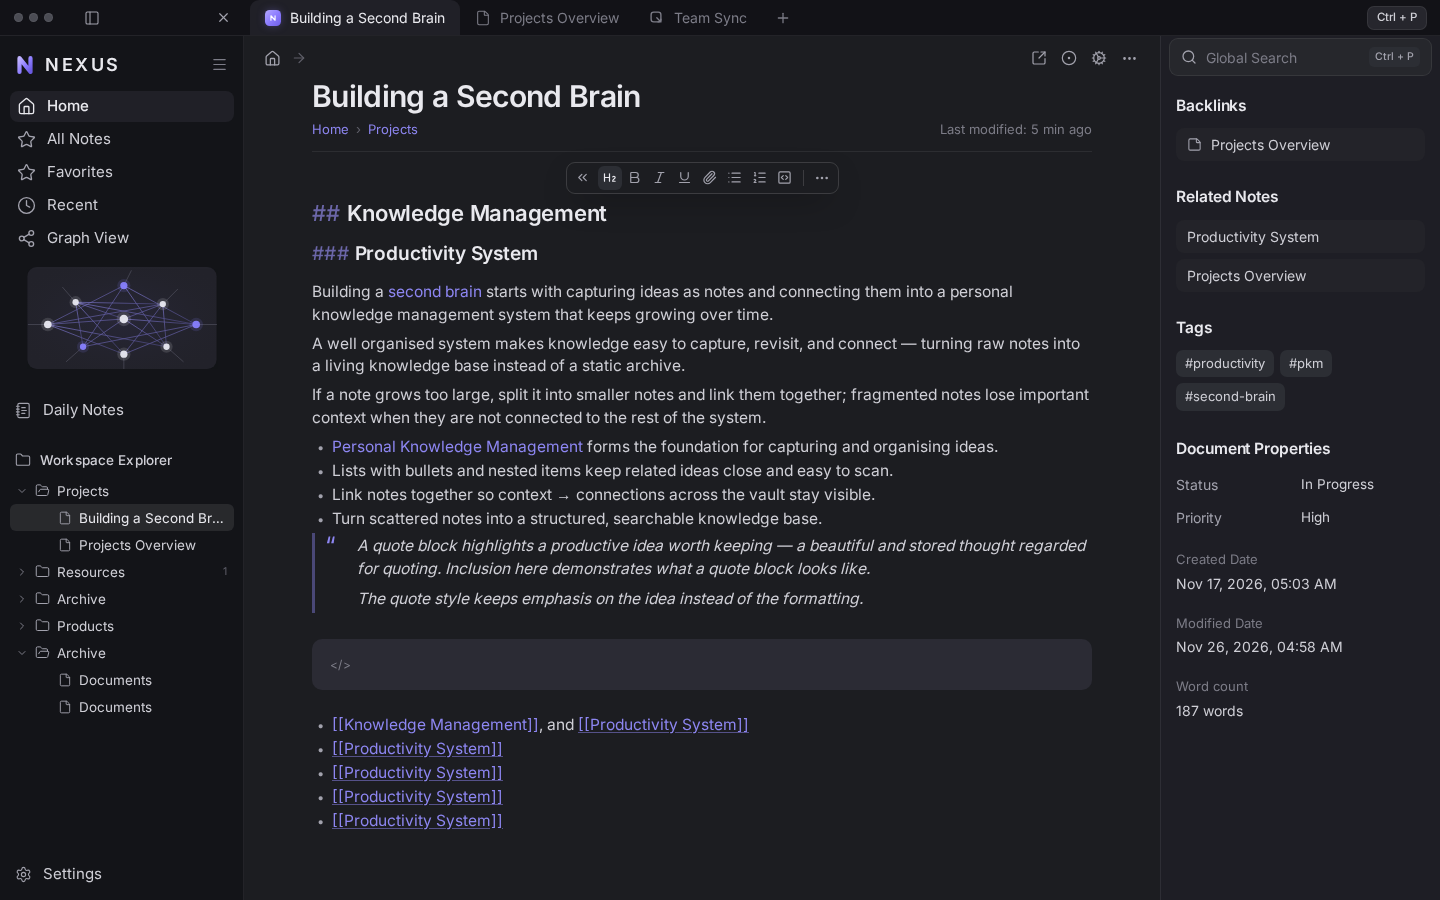
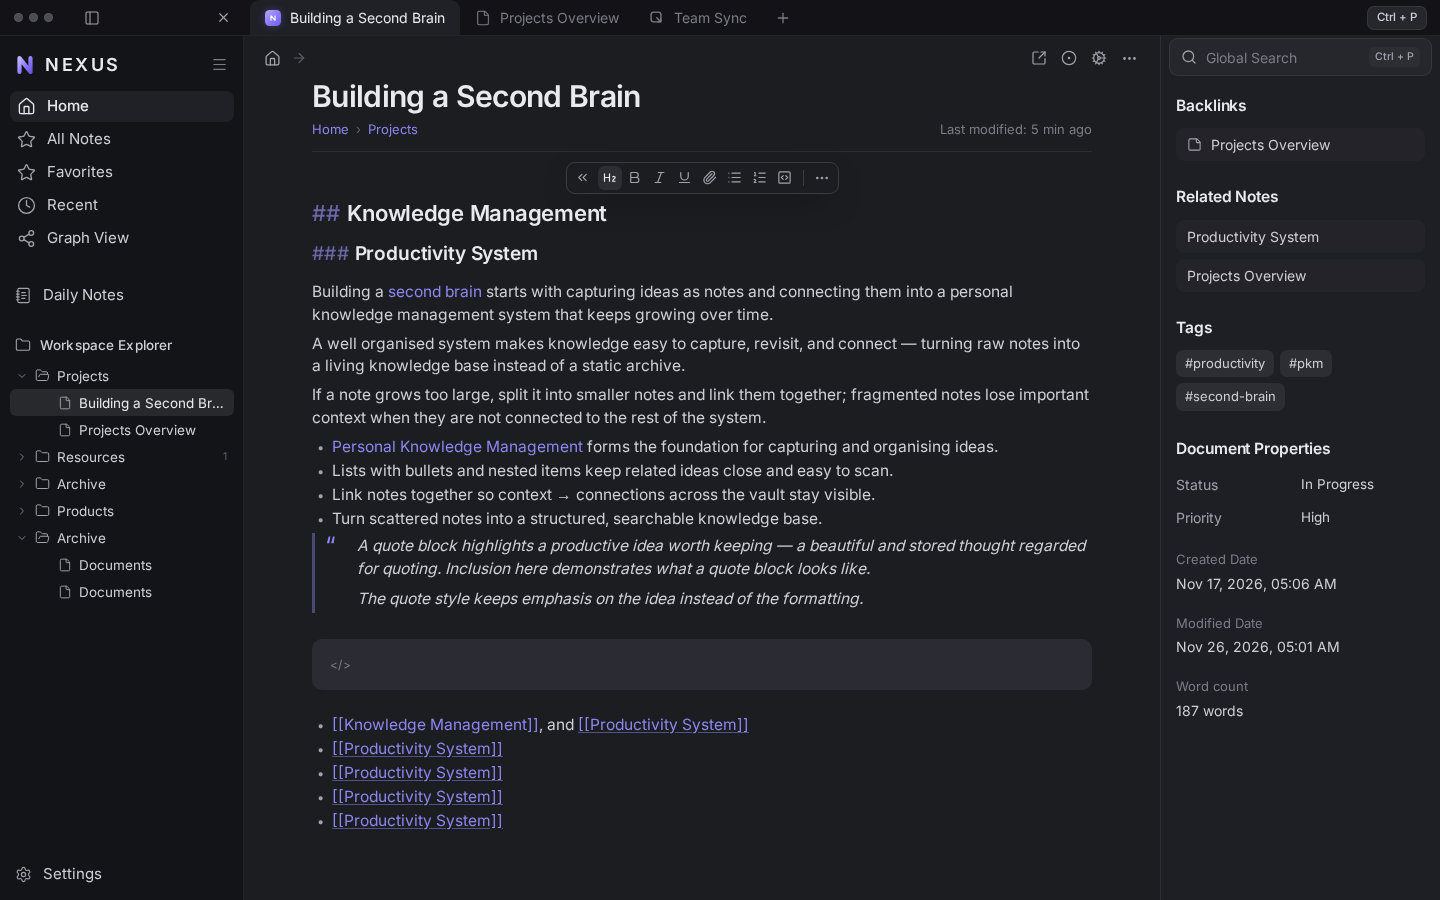
chore(ui): remove graph preview card under Canvas nav (per user request)

Changed region(s): [[0.0, 0.3111, 0.1562, 0.7467], [0.0625, 0.7467, 0.0938, 0.8089], [0.9062, 0.7156, 0.9375, 0.7467]]

diff --git a/src/components/LeftSidebar.tsx b/src/components/LeftSidebar.tsx
@@ -29,7 +29,6 @@ import {
 import type { NavId } from '../lib/store'
 import { useT } from '../lib/i18n'
 import { formatBinding } from '../lib/shortcuts'
-import { GraphPreview } from './GraphPreview'
 import { ContextMenu } from './ui/ContextMenu'
 import type { MenuItem } from './ui/ContextMenu'
 import type { WsNode } from '../lib/store'
@@ -488,20 +487,6 @@ export function LeftSidebar() {
           )
         })}
       </nav>
-
-      {/* mini canvas / graph card */}
-      <button
-        type="button"
-        aria-label={t('palette.openCanvas', 'Open Canvas')}
-        title={t('palette.openCanvas', 'Open Canvas')}
-        onClick={() => {
-          setNav('canvas')
-          setView({ kind: 'canvas' })
-        }}
-        className="mx-[12px] mt-[13px] block h-[102px] shrink-0 overflow-hidden rounded-[10px] transition-opacity hover:opacity-90"
-      >
-        <GraphPreview className="h-full w-full" />
-      </button>
 
       {/* daily notes */}
       <button
